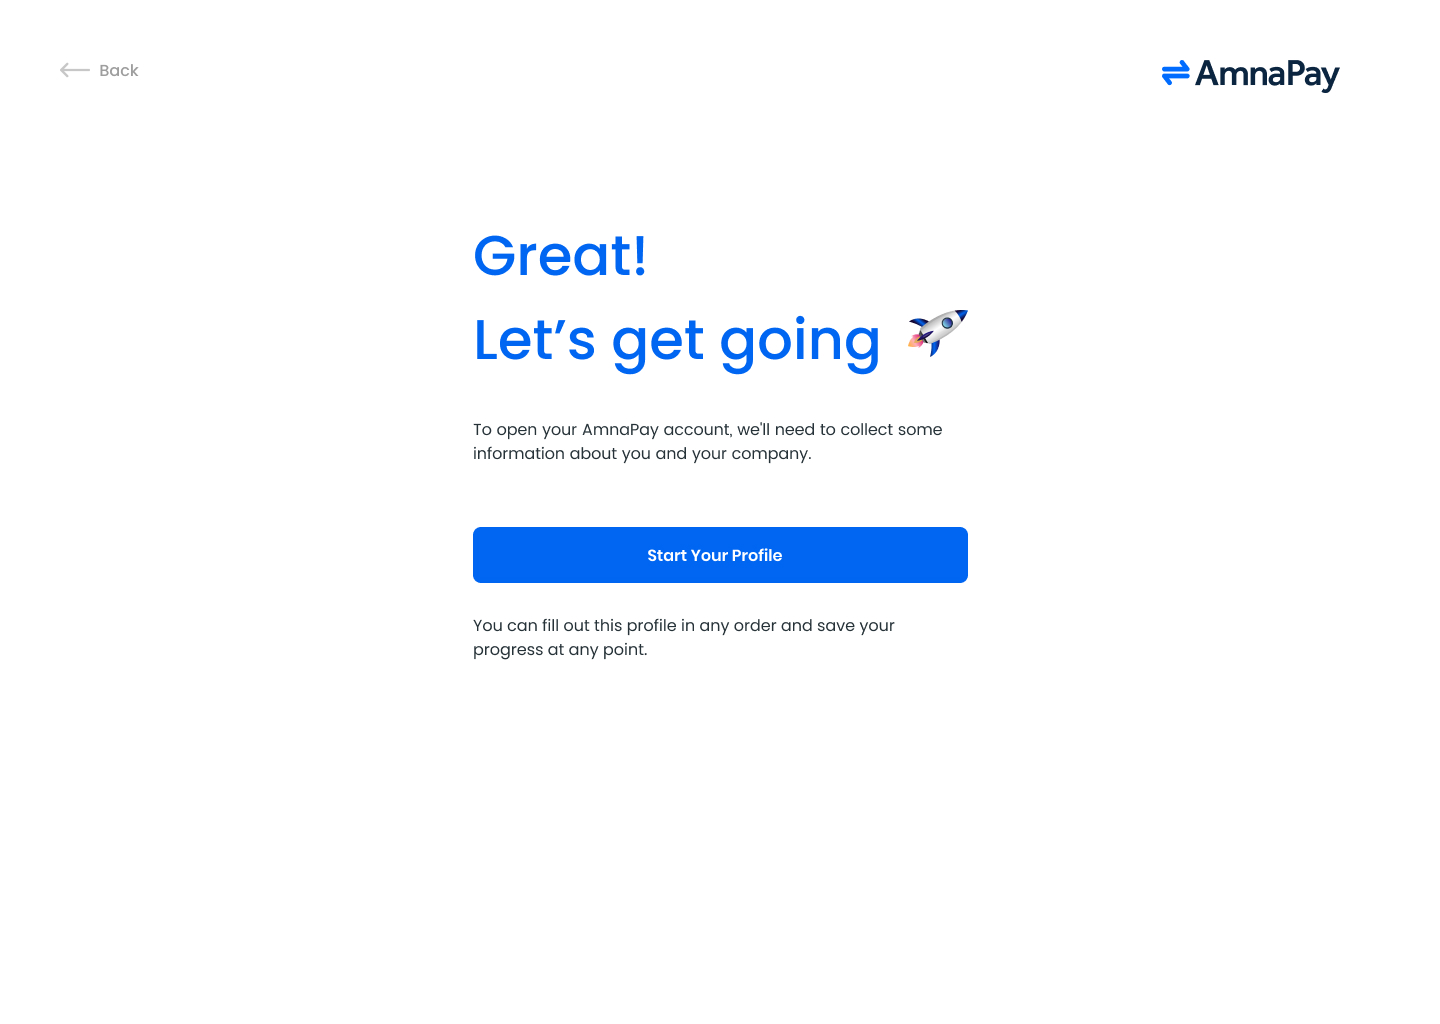
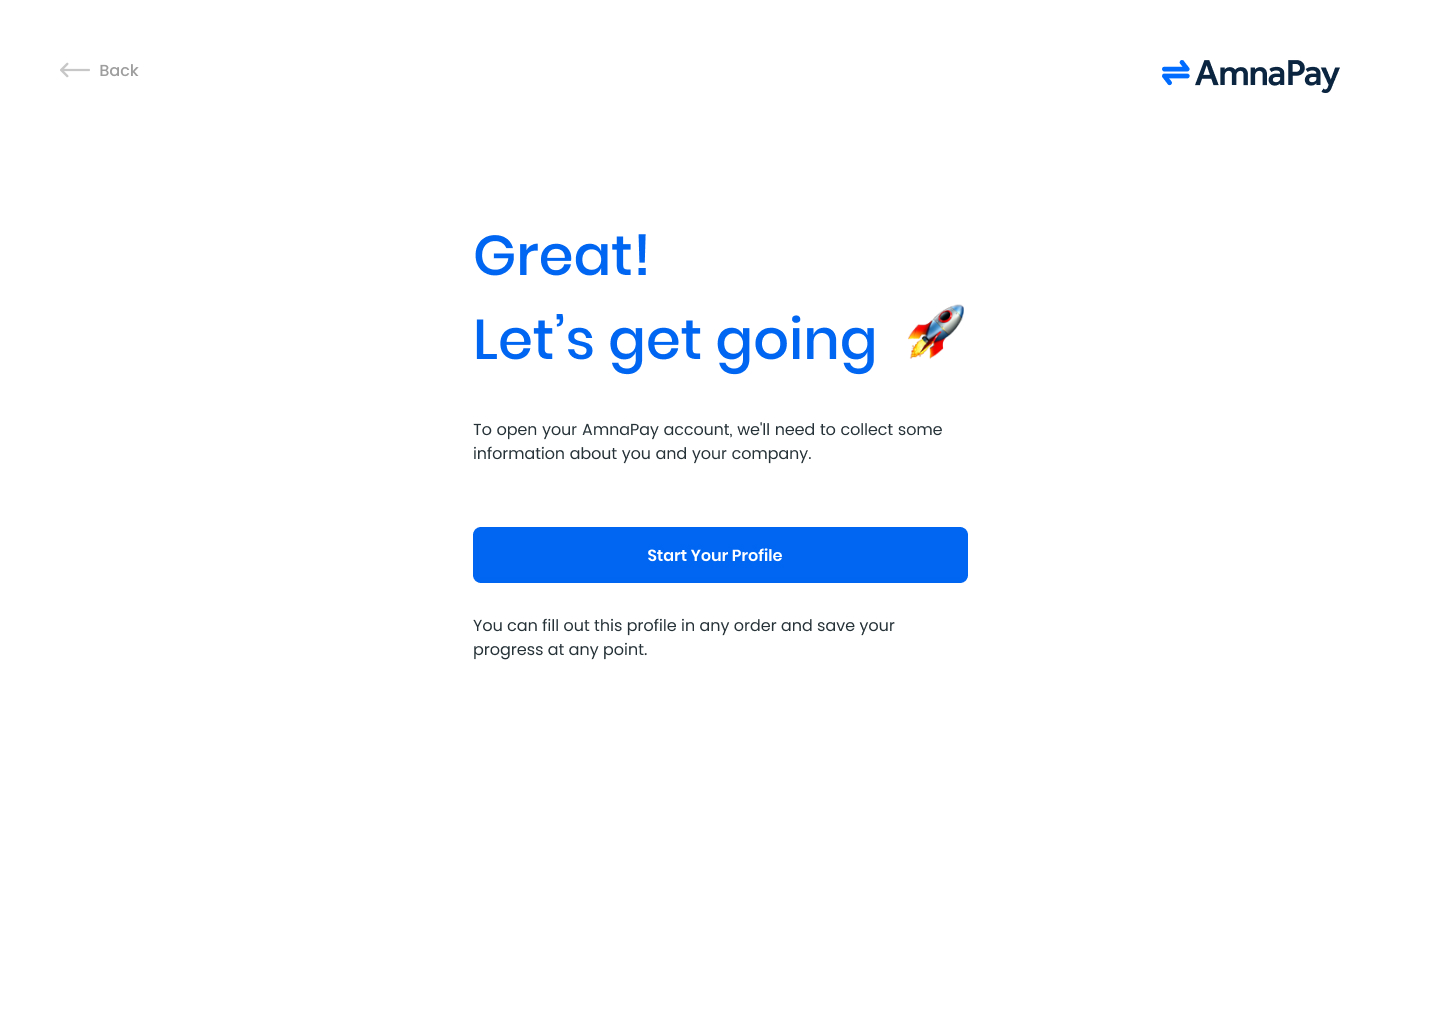
added picture to desktop 62

Changed region(s): [[0.3438, 0.2812, 0.6875, 0.375], [0.375, 0.2188, 0.4688, 0.2812]]

diff --git a/Sign Up/desktop_62.html b/Sign Up/desktop_62.html
@@ -5,7 +5,7 @@
     <meta http-equiv="X-UA-Compatible" content="IE=edge" />
     <meta name="viewport" content="width=device-width, initial-scale=1.0" />
     <title>desktop 62</title>
-    <link rel="stylesheet" href="./assets/styles/style.css" />
+    <link rel="stylesheet" href="../assets/styles/style.css" />
   </head>
 
   <body>
@@ -19,6 +19,7 @@
       </div>
 
       <div class="box box--small">
+        <img src="../assets/images/icons/rocket.svg" class="box-img">
         <h2 class="box-title box-title--blue">
           <span>Great!</span>
           <span>Let’s get going</span>

diff --git a/assets/styles/style.css b/assets/styles/style.css
@@ -79,6 +79,14 @@ input {
   margin-bottom: 30px;
 }
 
+.box-img{
+  position: absolute;
+  top: 90px;
+  right: 55px;
+  width: 56px;
+  height: 56px;
+}
+
 .box-logo {
   width: 200px;
   height: 50px;
